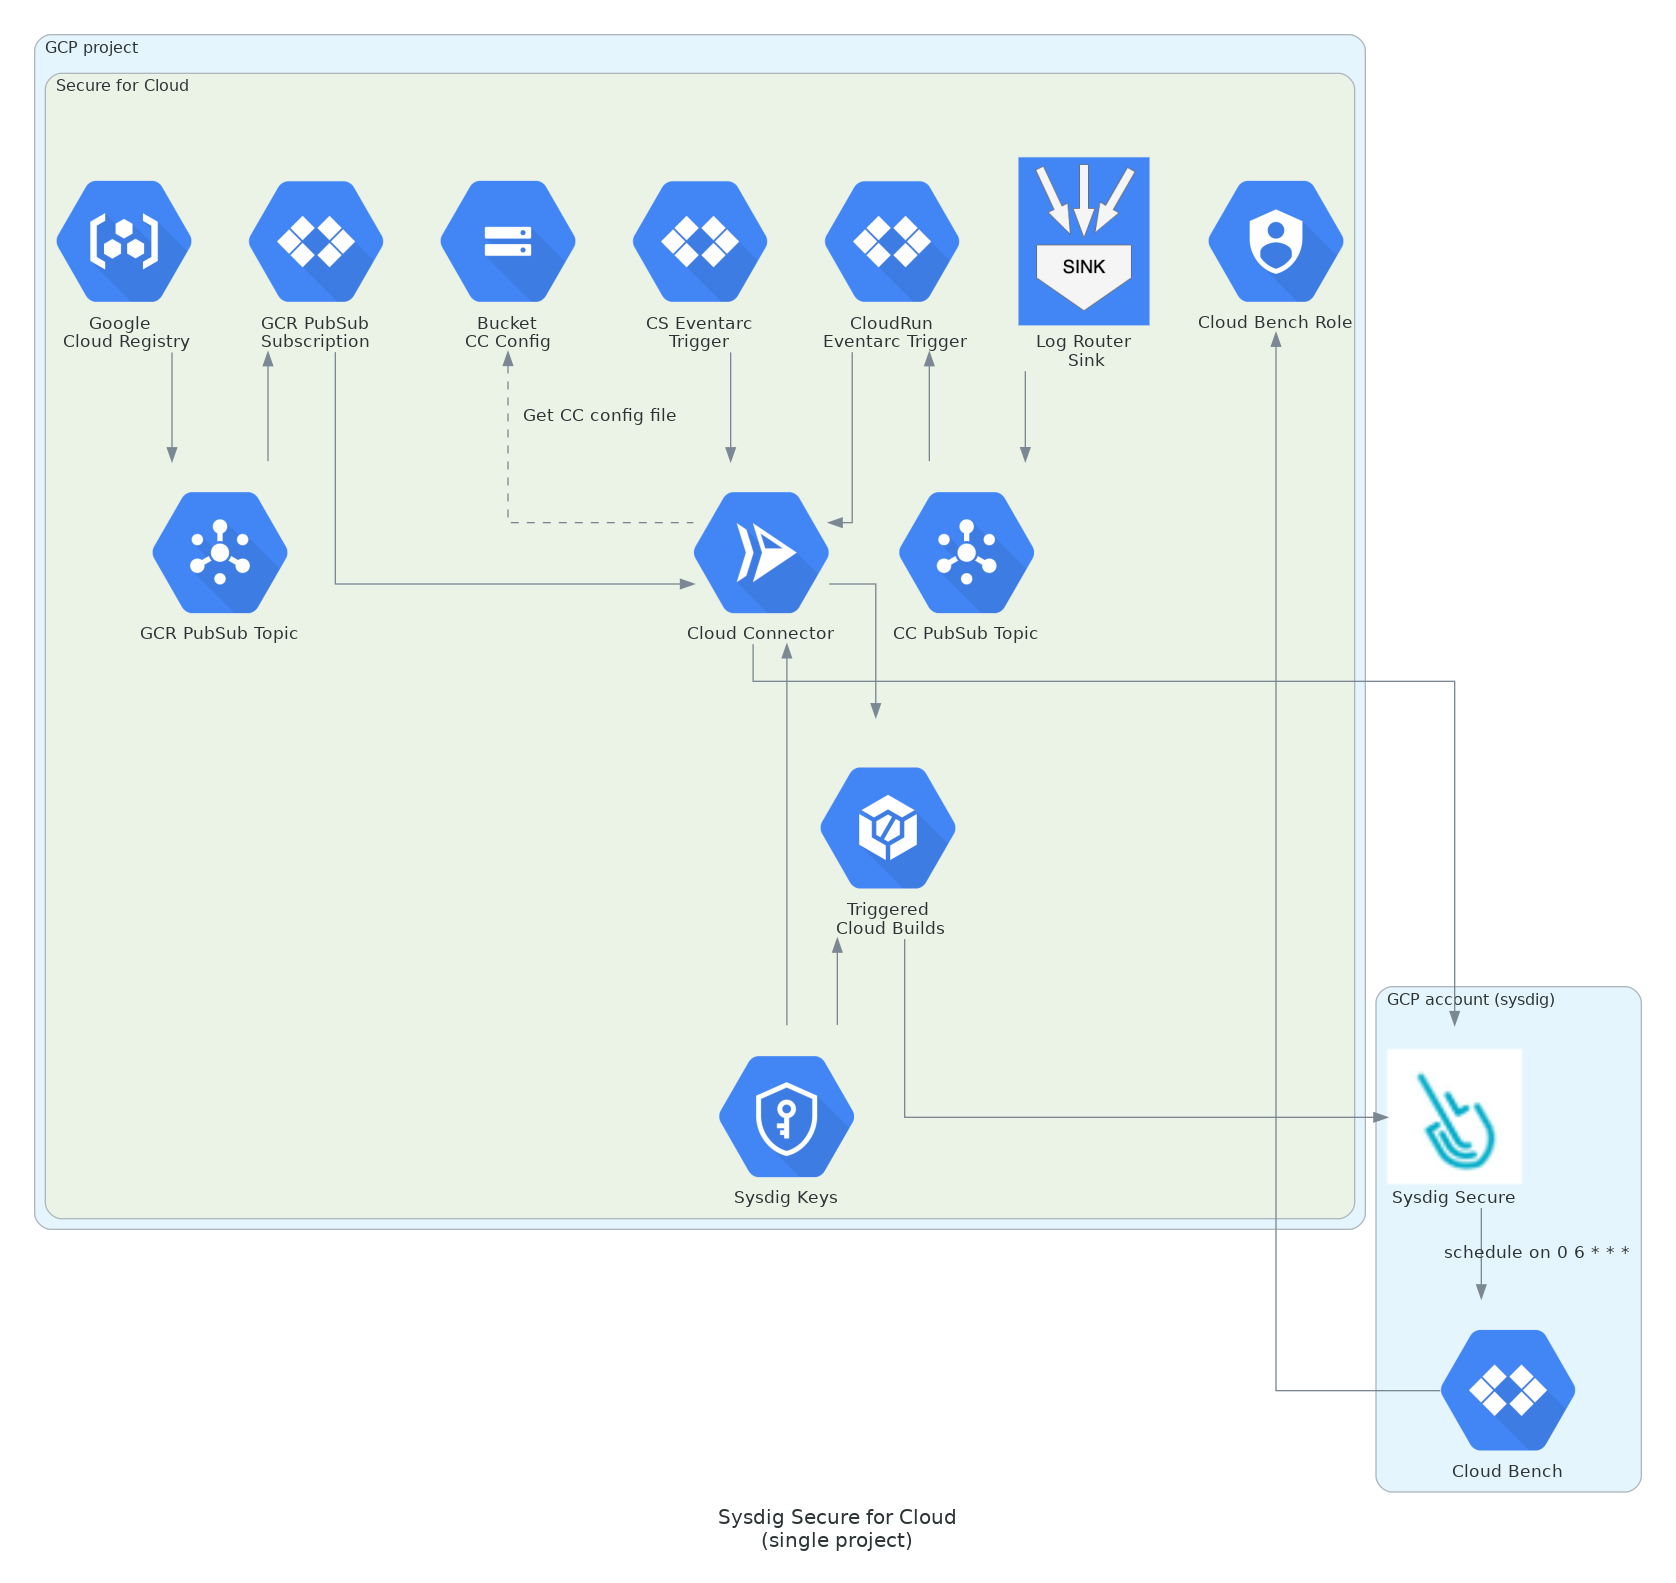
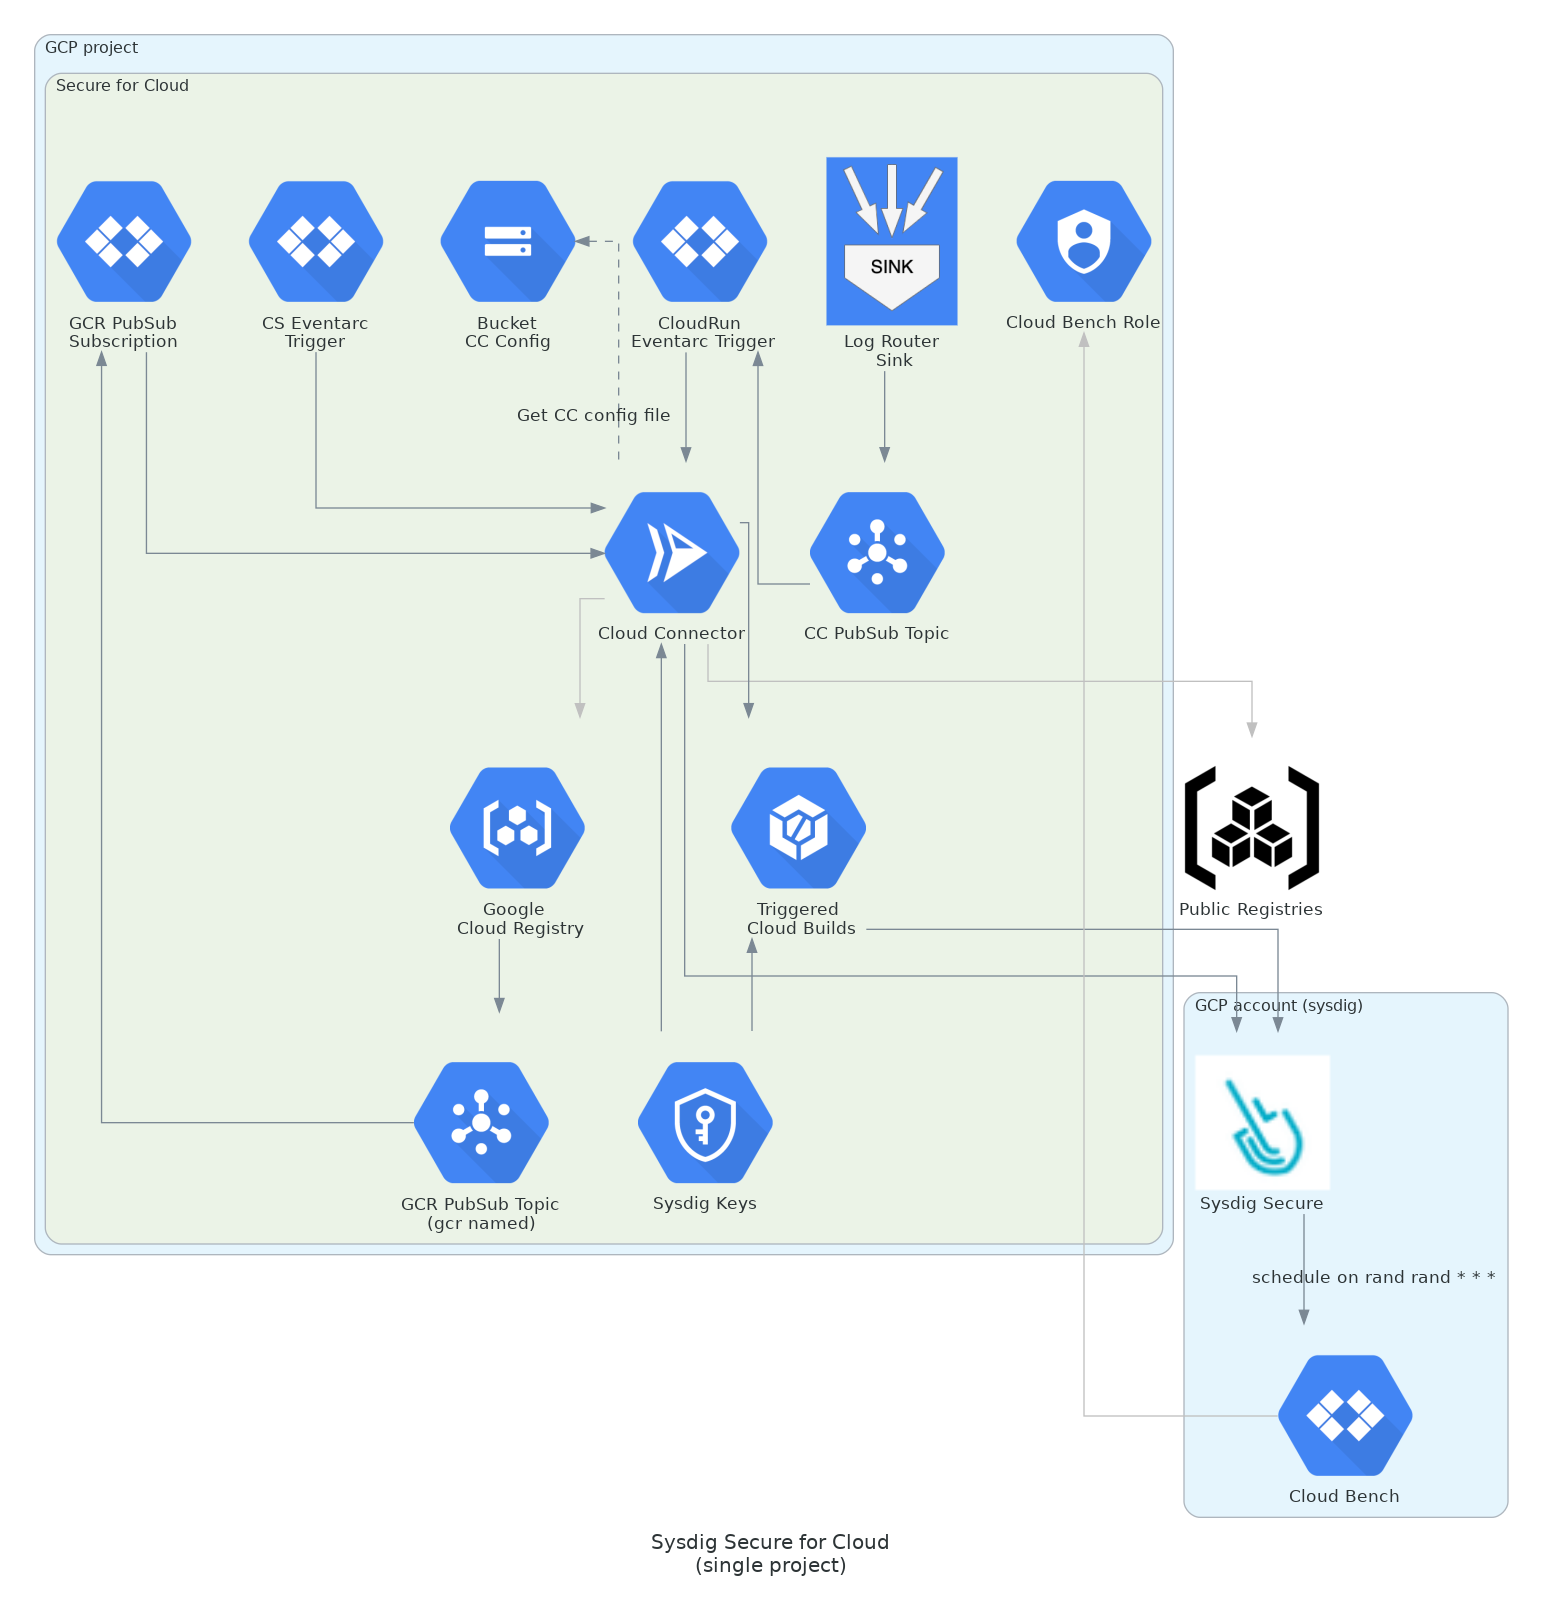
docs: homogeneize diagrams and minor README/CONTRIBUTE changes (#92)
* docs: homogeneize diagrams and minor README/CONTRIBUTE changes

* chore: docs lint

diff --git a/examples/organization/diagram-org.py b/examples/organization/diagram-org.py
@@ -1,5 +1,6 @@
 # diagrams as code vía https://diagrams.mingrammer.com
 
+from diagrams.aws.general import General
 from diagrams import Cluster, Diagram, Edge
 from diagrams.gcp.analytics import PubSub
 from diagrams.gcp.compute import Run
@@ -19,13 +20,15 @@ color_permission = "red"
 color_non_important = "gray"
 color_sysdig = "lightblue"
 
-with Diagram("Sysdig Secure for Cloud\n(organization)", graph_attr=diagram_attr, filename="diagram-org", show=True,
-             direction="TB"):
+with Diagram("Sysdig Secure for Cloud\n(organization)", graph_attr=diagram_attr, filename="diagram-org", show=True, direction="TB"):
+
+    public_registries = Custom("Public Registries","../../resources/diag-registry-icon.png")
+
     with Cluster("GCP account (sysdig)", graph_attr={"bgcolor": "lightblue"}):
         sds = Custom("Sysdig Secure", "../../resources/diag-sysdig-icon.png")
-        bench = Code("Cloud Bench")
+        bench = General("Cloud Bench")
+        sds >> Edge(label="schedule on rand rand * * *") >> bench
 
-        sds >> Edge(label="schedule on 0 6 * * *") >> bench
     with Cluster("GCP organization project", graph_attr={"bgcolor": "pink"}):
         ccProjectSink = Custom("\nLog Router \n Sink", "../../resources/sink.png")
         orgBenchRole = Iam("Cloud Bench Role")
@@ -44,7 +47,7 @@ with Diagram("Sysdig Secure for Cloud\n(organization)", graph_attr=diagram_attr,
         ccEventarc << ccPubSub
         ccProjectSink >> ccPubSub
 
-        gcrPubSub = PubSub("GCR PubSub Topic")
+        gcrPubSub = PubSub("GCR PubSub Topic\n(gcr named)")
         gcrSubscription = Code("GCR PubSub\nSubscription")
         csCloudBuild = Build("Triggered\n Cloud Builds")
         gcr = GCR("Google \n Cloud Registry")
@@ -54,9 +57,13 @@ with Diagram("Sysdig Secure for Cloud\n(organization)", graph_attr=diagram_attr,
         gcrSubscription << gcrPubSub
         csCloudBuild << Edge(style="dashed") << keys
         gcr >> gcrPubSub
+
+        # scanning
+        ccCloudRun >> Edge(color=color_non_important) >> gcr
+        ccCloudRun >> Edge(color=color_non_important) >> public_registries
+
     csCloudBuild >> sds
     ccCloudRun >> sds
 
-
-    ccBenchRole << bench
-    orgBenchRole << bench
+    ccBenchRole <<  Edge(color=color_non_important) <<  bench
+    orgBenchRole <<  Edge(color=color_non_important) <<  bench

diff --git a/examples/single-project/diagram-single.py b/examples/single-project/diagram-single.py
@@ -1,4 +1,6 @@
 # diagrams as code vía https://diagrams.mingrammer.com
+
+from diagrams.aws.general import General
 from diagrams import Cluster, Diagram, Edge
 from diagrams.gcp.analytics import PubSub
 from diagrams.gcp.compute import Run
@@ -25,13 +27,14 @@ color_permission = "red"
 color_non_important = "gray"
 color_sysdig = "lightblue"
 
-with Diagram("Sysdig Secure for Cloud\n(single project)", graph_attr=diagram_attr, filename="diagram-single", show=True,
-             direction="TB"):
+with Diagram("Sysdig Secure for Cloud\n(single project)", graph_attr=diagram_attr, filename="diagram-single", show=True, direction="TB"):
+
+    public_registries = Custom("Public Registries","../../resources/diag-registry-icon.png")
+
     with Cluster("GCP account (sysdig)"):
         sds = Custom("Sysdig Secure", "../../resources/diag-sysdig-icon.png")
-        bench = Code("Cloud Bench")
-
-        sds >> Edge(label="schedule on 0 6 * * *") >> bench
+        bench = General("Cloud Bench")
+        sds >> Edge(label="schedule on rand rand * * *") >> bench
 
     with Cluster("GCP project"):
         with Cluster("Secure for Cloud"):
@@ -49,7 +52,7 @@ with Diagram("Sysdig Secure for Cloud\n(single project)", graph_attr=diagram_att
 
             ccCloudRun >> sds
             keys = KMS("Sysdig Keys")
-            gcrPubSub = PubSub("GCR PubSub Topic")
+            gcrPubSub = PubSub("GCR PubSub Topic\n(gcr named)")
             csEventarc = Code("CS Eventarc\nTrigger")
             gcrSubscription = Code("GCR PubSub\nSubscription")
             csCloudBuild = Build("Triggered\n Cloud Builds")
@@ -63,4 +66,9 @@ with Diagram("Sysdig Secure for Cloud\n(single project)", graph_attr=diagram_att
             ccCloudRun >> csCloudBuild
             gcr >> gcrPubSub
             csCloudBuild >> sds
-    ccBenchRole << bench
+
+            # scanning
+            ccCloudRun >> Edge(color=color_non_important) >> gcr
+            ccCloudRun >> Edge(color=color_non_important) >> public_registries
+
+    ccBenchRole <<  Edge(color=color_non_important) << bench

diff --git a/README.md b/README.md
@@ -5,12 +5,11 @@ Terraform module that deploys the [**Sysdig Secure for Cloud** stack in **Google
 
 Provides unified threat-detection, compliance, forensics and analysis through these major components:
 
-* **[CSPM/Compliance](https://docs.sysdig.com/en/docs/sysdig-secure/benchmarks/)**: It evaluates periodically your cloud configuration, using Cloud Custodian, against some benchmarks and returns the results and remediation you need to fix. Managed through `cloud-bench` module. <br/>
+* **[CSPM/Compliance](https://docs.sysdig.com/en/docs/sysdig-secure/posture/compliance-unified-/)**: It evaluates periodically your cloud configuration, using Cloud Custodian, against some benchmarks and returns the results and remediation you need to fix. Managed through `cloud-bench` module. <br/>
 
 * **[Cloud Threat Detection](https://docs.sysdig.com/en/docs/sysdig-secure/insights/)**: Tracks abnormal and suspicious activities in your cloud environment based on Falco language. Managed through `cloud-connector` module. <br/>
 
-* **[Cloud Scanning](https://docs.sysdig.com/en/docs/sysdig-secure/scanning/)**: Automatically scans all container images pushed to the registry or as soon a new task which involves a container is spawned in your account. Managed through `cloud-connector`. <br/>
-
+* **[Cloud Image Scanning](https://docs.sysdig.com/en/docs/sysdig-secure/scanning/)**: Automatically scans all container images pushed to the registry (GCR) and the images that run on the GCP workload (currently CloudRun). Managed through `cloud-connector`. <br/>
 
 For other Cloud providers check: [AWS](https://github.com/sysdiglabs/terraform-aws-secure-for-cloud), [Azure](https://github.com/sysdiglabs/terraform-azurerm-secure-for-cloud)
 
@@ -122,16 +121,19 @@ In the `cloud-connector` logs you should see similar logs to these
 
 **Image Scanning**
 
-Upload an image to a new Repository in a Artifact Registry. Follow repository `Setup Instructions` provided by GCP
-```bash
-$ docker tag IMAGE:VERSION REPO_REGION-docker.pkg.dev/PROJECT-ID/REPOSITORY/IMAGE:latest
-$ docker push REPO_REGION-docker.pkg.dev/PROJECT-ID/REPOSITORY/IMAGE:latest
-````
+- For Repository image scanning, upload an image to a new Repository in a Artifact Registry. Follow repository `Setup Instructions` provided by GCP
+    ```bash
+    $ docker tag IMAGE:VERSION REPO_REGION-docker.pkg.dev/PROJECT-ID/REPOSITORY/IMAGE:latest
+    $ docker push REPO_REGION-docker.pkg.dev/PROJECT-ID/REPOSITORY/IMAGE:latest
+    ````
 
-In the `cloud-connector` logs you should see similar logs to these
+- For CloudRun image scanning, deploy a runner.
+
+It may take some time, but you should see logs detecting the new image in the `cloud-connector` logs, similar to these
 > An image has been pushed to GCR registry (project=..., tag=europe-west2-docker.pkg.dev/test-repo/alpine/alpine:latest, digest=europe-west2-docker.pkg.dev/test-repo/alpine/alpine@sha256:be9bdc0ef8e96dbc428dc189b31e2e3b05523d96d12ed627c37aa2936653258c)
-
 > Starting GCR scanning for 'europe-west2-docker.pkg.dev/test-repo/alpine/alpine:latest
+
+And a CloudBuild being launched successfully.
 
 ## Troubleshooting
 
@@ -139,10 +141,9 @@ In the `cloud-connector` logs you should see similar logs to these
 A: Currently Sysdig Backend does not support dynamic WorkloadPool and it's name is fixed to `sysdiglcoud`.
 <br/>Besides, Google, only performs a soft-deletion of this resource.
 https://cloud.google.com/iam/docs/manage-workload-identity-pools-providers#delete-pool
-
 > You can undelete a pool for up to 30 days after deletion. After 30 days, deletion is permanent. Until a pool is permanently deleted, you cannot reuse its   name when creating a new workload identity pool.<br/>
 
-S: For the moment, federation workload identity pool+provider have fixed name. In case you want to reuse it, you can reactivate and import it, into your terraform state manually.
+<br/>S: For the moment, federation workload identity pool+provider have fixed name. In case you want to reuse it, you can reactivate and import it, into your terraform state manually.
 ```bash
 # re-activate pool and provider
 $ gcloud iam workload-identity-pools undelete sysdigcloud  --location=global
@@ -154,13 +155,31 @@ $ terraform import 'module.sfc_example_single-project.module.cloud_bench[0].modu
 $ terraform import 'module.sfc_example_single-project.module.cloud_bench[0].module.trust_relationship["<YOUR_PROJECT_ID>"].google_iam_workload_identity_pool_provider.pool_provider' sysdigcloud/sysdigcloud
  ```
 
-### Q: Getting "message: Cloud Run error: Container failed to start. Failed to start and then listen on the port defined by the PORT environment variable"
-A: Contrary to AWS, Terraform Google deployment requires just-started workload to start in a healthy status. If this does not happen it will fail.
-S: Check your workload services (cloud run) logs to see what really failed. One common cause is a wrong Sysdig Secure API Token
+### Q: Gettint "Error creating Topic: googleapi: Error 409: Resource already exists in the project (resource=gcr)"
+```text
+│ Error: Error creating Topic: googleapi: Error 409: Resource already exists in the project (resource=gcr).
+│
+│   with module.sfc_example_single_project.module.pubsub_http_subscription.google_pubsub_topic.topic[0],
+│   on ../../../modules/infrastructure/pubsub_push_http_subscription/main.tf line 10, in resource "google_pubsub_topic" "topic":
+│   10: resource "google_pubsub_topic" "topic" {
+```
+A: This error happens due to a GCP limitation where only a single topic named `gcr` can exist. This name is [gcp hardcoded](https://cloud.google.com/container-registry/docs/configuring-notifications#create_a_topic) and is the one we used to detect images pushed to the registry.
+<br/>S: If the topic already exists, you can import it in your terraform state, BUT BEWARE that once you call destroy it will be removed.
+
+```terraform
+$ terraform import 'module.sfc_example_single_project.module.pubsub_http_subscription.google_pubsub_topic.topic[0]' gcr
+```
+Contact us to develop a workaround for this, where the topic name is to be reused.
+
+
 
 ### Q: Scanning does not seem to work<br/>
-A: Verify that `gcr` topic exists. If `create_gcr_topic` is set to false and `gcr` topic is not found, the GCR scanning is ommited and won't be deployed. For more info see GCR PubSub topic.
+A: Verify that `gcr` topic exists. If `create_gcr_topic` is set to false and `gcr` topic is not found, the GCR scanning is omitted and won't be deployed. For more info see GCR PubSub topic.
 <br/><br/>
+
+### Q: Getting "message: Cloud Run error: Container failed to start. Failed to start and then listen on the port defined by the PORT environment variable"
+A: Contrary to AWS, Terraform Google deployment requires just-started workload to start in a healthy status. If this does not happen it will fail.
+<br/>S: Check your workload services (cloud run) logs to see what really failed. One common cause is a wrong Sysdig Secure API Token
 
 ### Q: Scanning, I get an error saying:
 ```

diff --git a/CONTRIBUTE.md b/CONTRIBUTE.md
@@ -39,10 +39,10 @@
 - [ ] **input/output** variables have been modified?
   - [ ] terraform-docs has been updated accordingly
   - [ ] if these inputs are mandatory, they've been changed on
-    - [ ] examples
-    - [ ] testing use-cases
-    - [ ] snippets on README's
-    - [ ] snippets on Secure Platform onboarding
+    - [ ] examples, examples-internal and use-cases are updated accordingly
+    - [ ] tests are updated accordingly
+    - [ ] snippets on README's are updated accordingly
+    - [ ] snippets on Secure Platform onboarding are updated accordingly
 - [ ] had any problems developing this PR? add it to the readme **troubleshooting** list! may come handy to someone
 
 
@@ -69,9 +69,31 @@ Implemented vía **Terraform Kitchen** | https://newcontext-oss.github.io/kitche
 
 - Kitchen configuration can be found in `/.kitchen.yml`
 - Under `/test/fixtures` you can find the targets that will be tested. Please keep this as similar as possible to the Terraform Registry Modules examples.
+  - In order to test this in your local environment use following recipee
+  ```bash
+  terraform init -backend=false && \
+  terraform validate && \
+  terraform plan && \
+  read && \   # will give you time to review plan or just push enter to apply
+  terraform apply --auto-approve
+  ```
 - AWS_PROFILE configuration is required to access the [TF s3 state backend](#terraform-backend)
 
-**Running Kitchen tests locally**
+### Terraform Backend
+
+Because CI/CD sometimes fail, we setup the Terraform state to be handled in backend (s3+dynamo) within the Sysdig AWS backend (sysdig-test-account).
+
+### Remote state cleanup from local
+
+In case you need to handle terraform backend state from failing kitchen tests, some guidance for using the `backend.tf` remote state manifest, present on each test
+- Configure same parameters as the github action, that is `AWS_PROFILE`, and leave default `name` and `region` values
+- Kitchen works with `terraform workspaces` so, in case you want to fix a specific test, switch to that workspace after the `terraform init` with `terraform workspace select WORKSPACE`
+- Perform the desired terraform task
+
+You can also use `kitchen destroy` instead of `terraform` but the requirements are the same, except that the workspace will be managed through kitchen
+
+
+### Running Kitchen tests locally
 
 Ruby 2.7 is required to launch the tests.
 Run `bundle install` to get kitchen-terraform bundle.
@@ -87,17 +109,12 @@ $ bundle exec kitchen destroy
 $ bundle exec kitchen tests
 
 # run one specific test
-$ bundle exec kitchen test "single-account-k8s-aws"
-
+$ bundle exec kitchen test "single-project"
 ```
 
-### Terraform Backend
-
-Because CI/CD sometimes fail, we setup the Terraform state to be handled in backend (s3+dynamo) within the Sysdig AWS backend (sysdig-test-account).
-In order to be able to use this Terraform backend AWS credentials are configured as Github project secret
-
-If terraform state ends up in bad shape and not cleaned, use the action called `Test Cleanup` that should destroy any messed situation.
-If this does not work, try it from your local, but please do it using `kitchen destroy`, not `terraform destroy` unless you really know what you're doing :]
+Note: As said before kitchen works with workspaces, so any local test, unless you change it, will fall into the `default` workspace and will not collide with
+Github Action tests. May collide however with other peers if they're doing similar tasks on local ;)
+You can always temporary delete the `backend.tf` file on the test you're running
 
 ### Deployed infrastructure resources
 

diff --git a/modules/services/cloud-connector/README.md b/modules/services/cloud-connector/README.md
@@ -74,7 +74,7 @@ No modules.
 | <a name="input_config_source"></a> [config\_source](#input\_config\_source) | Path to a file that contains the contents of the configuration file to be saved in the bucket | `string` | `null` | no |
 | <a name="input_cpu"></a> [cpu](#input\_cpu) | Amount of CPU to reserve for cloud-connector cloud run service | `string` | `"1"` | no |
 | <a name="input_extra_envs"></a> [extra\_envs](#input\_extra\_envs) | Extra environment variables for the Cloud Connector instance | `map(string)` | `{}` | no |
-| <a name="input_image_name"></a> [image\_name](#input\_image\_name) | Cloud Connector image to deploy | `string` | `"gcr.io/mateo-burillo-ns/cloud-connector:latest"` | no |
+| <a name="input_image_name"></a> [image\_name](#input\_image\_name) | Sysdig Owned Cloud Connector public image. GCP only allows the deployment of images that are registered in gcr.io | `string` | `"gcr.io/mateo-burillo-ns/cloud-connector:latest"` | no |
 | <a name="input_max_instances"></a> [max\_instances](#input\_max\_instances) | Max number of instances for the Cloud Connector | `number` | `1` | no |
 | <a name="input_memory"></a> [memory](#input\_memory) | Amount of memory to reserve for cloud-connector cloud run service | `string` | `"500Mi"` | no |
 | <a name="input_name"></a> [name](#input\_name) | Name to be assigned to all child resources. A suffix may be added internally when required. Use default value unless you need to install multiple instances | `string` | `"sfc-cloudconnector"` | no |
